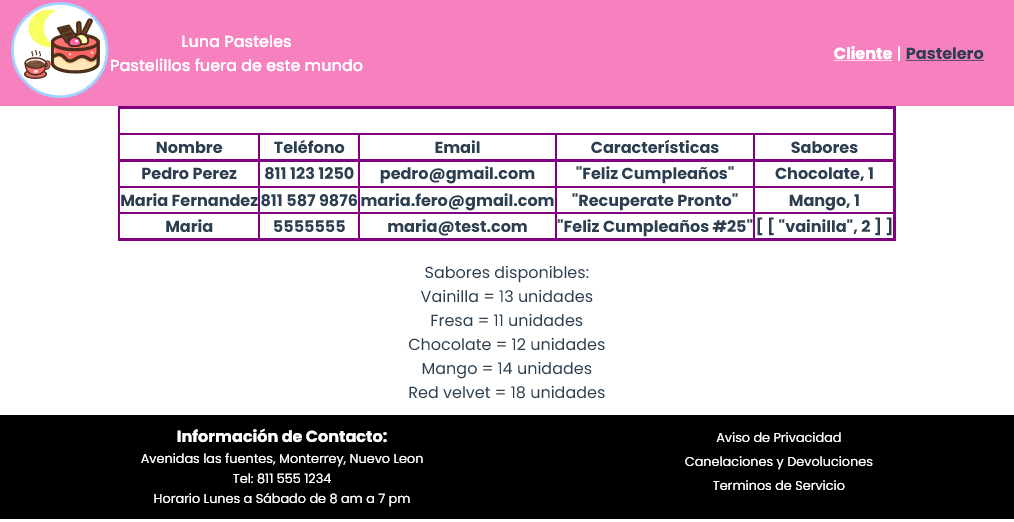
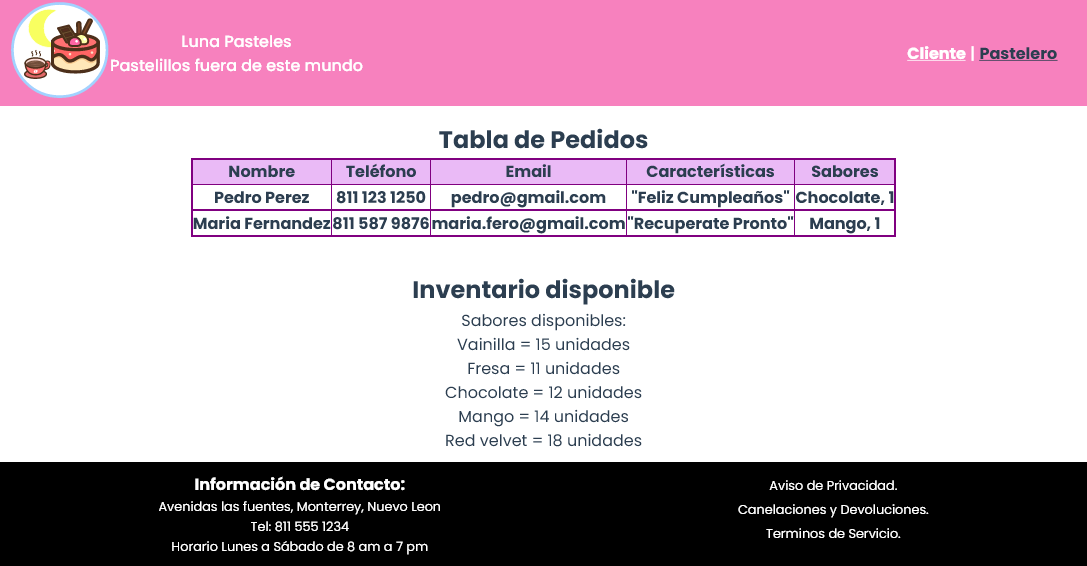
update: responsive table

Changed region(s): [[0.0, 0.0, 1.0, 0.4598], [0.0, 0.4904, 1.0, 1.0], [0.8254, 0.0613, 0.9783, 0.1226]]

diff --git a/05 - VueJS/pasteleria-vuex/src/components/TablaPedidos.vue b/05 - VueJS/pasteleria-vuex/src/components/TablaPedidos.vue
@@ -2,38 +2,46 @@
     <div class="tablaPedidos">
         <div class="tablas">
             <!-- Tabla de Pedidos -->
-            <table><br>
-                <tr> <!-- Encabezados -->
-                    <th>Nombre</th>
-                    <th>Teléfono</th>
-                    <th>Email</th>
-                    <th>Características</th>
-                    <th>Sabores</th>
+            <h2>Tabla de Pedidos</h2>
+            <table>
+                <!-- Encabezados -->
+                <thead>
+                    <tr> 
+                        <th>Nombre</th>
+                        <th>Teléfono</th>
+                        <th>Email</th>
+                        <th>Características</th>
+                        <th>Sabores</th>
+                    </tr>
+                </thead>
+                <!-- Filas -->
+                <tbody>
+                <tr>
+                    <th data-label="Nombre">Pedro Perez</th>
+                    <th data-label="Teléfono">811 123 1250 </th>
+                    <th data-label="Email">pedro@gmail.com</th>
+                    <th data-label="Características">"Feliz Cumpleaños"</th>
+                    <th data-label="Sabores">Chocolate, 1</th>
                 </tr>
                 <tr>
-                    <th>Pedro Perez</th>
-                    <th>811 123 1250 </th>
-                    <th>pedro@gmail.com</th>
-                    <th>"Feliz Cumpleaños"</th>
-                    <th>Chocolate, 1</th>
+                    <th data-label="Nombre">Maria Fernandez</th>
+                    <th data-label="Teléfono">811 587 9876 </th>
+                    <th data-label="Email">maria.fero@gmail.com</th>
+                    <th data-label="Características">"Recuperate Pronto"</th>
+                    <th data-label="Sabores">Mango, 1</th>
                 </tr>
-                <tr>
-                    <th>Maria Fernandez</th>
-                    <th>811 587 9876 </th>
-                    <th>maria.fero@gmail.com</th>
-                    <th>"Recuperate Pronto"</th>
-                    <th>Mango, 1</th>
-                </tr>
+                
                 <!-- For each item in PedidosHistorial, show attibute on table -->
                 <tr v-for="item in $store.getters.getPedidos"  :key="item">  
-                    <th>{{item.nombre}}</th> 
-                    <th>{{item.telCliente}}</th>   
-                    <th>{{item.correoCliente}}</th>  
-                    <th>{{item.comentarios}}</th>  
-                    <th>{{item.pasteles}}</th>  
+                    <th data-label="Nombre">{{item.nombre}}</th> 
+                    <th data-label="Teléfono">{{item.telCliente}}</th>   
+                    <th data-label="Email">{{item.correoCliente}}</th>  
+                    <th data-label="Características">{{item.comentarios}}</th>  
+                    <th data-label="Sabores">{{item.pasteles}}</th>  
                 </tr>
-            </table>
+                </tbody>
 
+            </table>
         </div>
     </div>
 </template>

diff --git a/05 - VueJS/pasteleria-vuex/src/views/AboutView.vue b/05 - VueJS/pasteleria-vuex/src/views/AboutView.vue
@@ -45,11 +45,65 @@ export default {
   }
 
   .tablaPedidos table{
-    border-collapse: collapse;    
+    border-collapse: collapse; 
+    margin: 0 auto;  
+    table-layout: fixed; 
+  }
+
+  thead{
+    background-color: #eabaf6;
   }
 
   .tablaPedidos th{
-    border: 3px solid purple; 
+    border: 2px solid purple; 
+    
+  }
+
+
+  /* Responsive Design */
+  @media screen and (max-width:800px){
+    table, thead, tbody, th, td, tr { 
+		display: block; 
+	  }
+
+    /* Esconder encabezados  thead*/
+    thead{
+      position: absolute;
+		  top: -9999px;
+		  left: -9999px;
+    }
+
+    
+
+    th {
+      position: relative;
+      width: 350px;
+      padding-left: 50%;
+      text-align: left; 
+      font-weight: 400;
+      
+    }
+
+    /* Datalbels como encabezados */
+    th:before{
+      content: attr(data-label);
+      display: inline-block;
+      width: 80%;
+      text-align: left;
+      margin-left: -102%;
+      white-space: nowrap;
+      line-height: 1.5;
+      background-color: #eabaf6;
+      padding-left: 05px;
+      margin-right: 05px;
+    }
+
+    /* gap entre pedidos */
+    tr + tr{
+        margin-top: 1.5em;
+    }
+
+
   }
 
   

diff --git a/05 - VueJS/pasteleria-vuex/src/components/Inventarios.vue b/05 - VueJS/pasteleria-vuex/src/components/Inventarios.vue
@@ -1,5 +1,7 @@
 <template>
     <div class="inventarios">
+
+        <h2>Inventario disponible</h2>
         
         <div class="disponible">
             <!-- Sabores -->

diff --git a/05 - VueJS/readme.md b/05 - VueJS/readme.md
@@ -1,17 +1,22 @@
 # Practica Vuex
 
 ## Objetivo
-Recrear la práctica Pasteleria, pero utilizando el framework Vue JS
+- Recrear la práctica Pasteleria, pero utilizando el framework Vue JS, haciendo uso de componentes.
+- Las entradas de formulario Cliente deben pasar al lado de la página del Pastelero como una nueva entrada en la Tabla de Pedidos. 
 
 ## Despliegue de la página
 [Pagina Pasteleria](https://illustrious-granita-a790c2.netlify.app/#/)
 
-## Capturas de Pantalla
-Vista Cliente
-![Cliente](ClienteView.png)
+## Capturas de Pantalla   
 
-Vista Pastelero
-![Pastelero](PasteleroView.png)
+Vista Cliente   
 
-Vista mobile
-![Mobile](mobileVersion.png)
+<img src="ClienteView.png" alt="Cliente view" width="500"/>    
+
+Vista Pastelero   
+<img src="PasteleroView.png" alt="Pastelero view" width="500"/>    
+
+Responsive version   
+<img src="mobileVersion.png" alt="Responsive view" width="350"/> 
+
+<img src="PasteleroViewResponsive.png" alt="Responsive view 2" width="350"/>  
